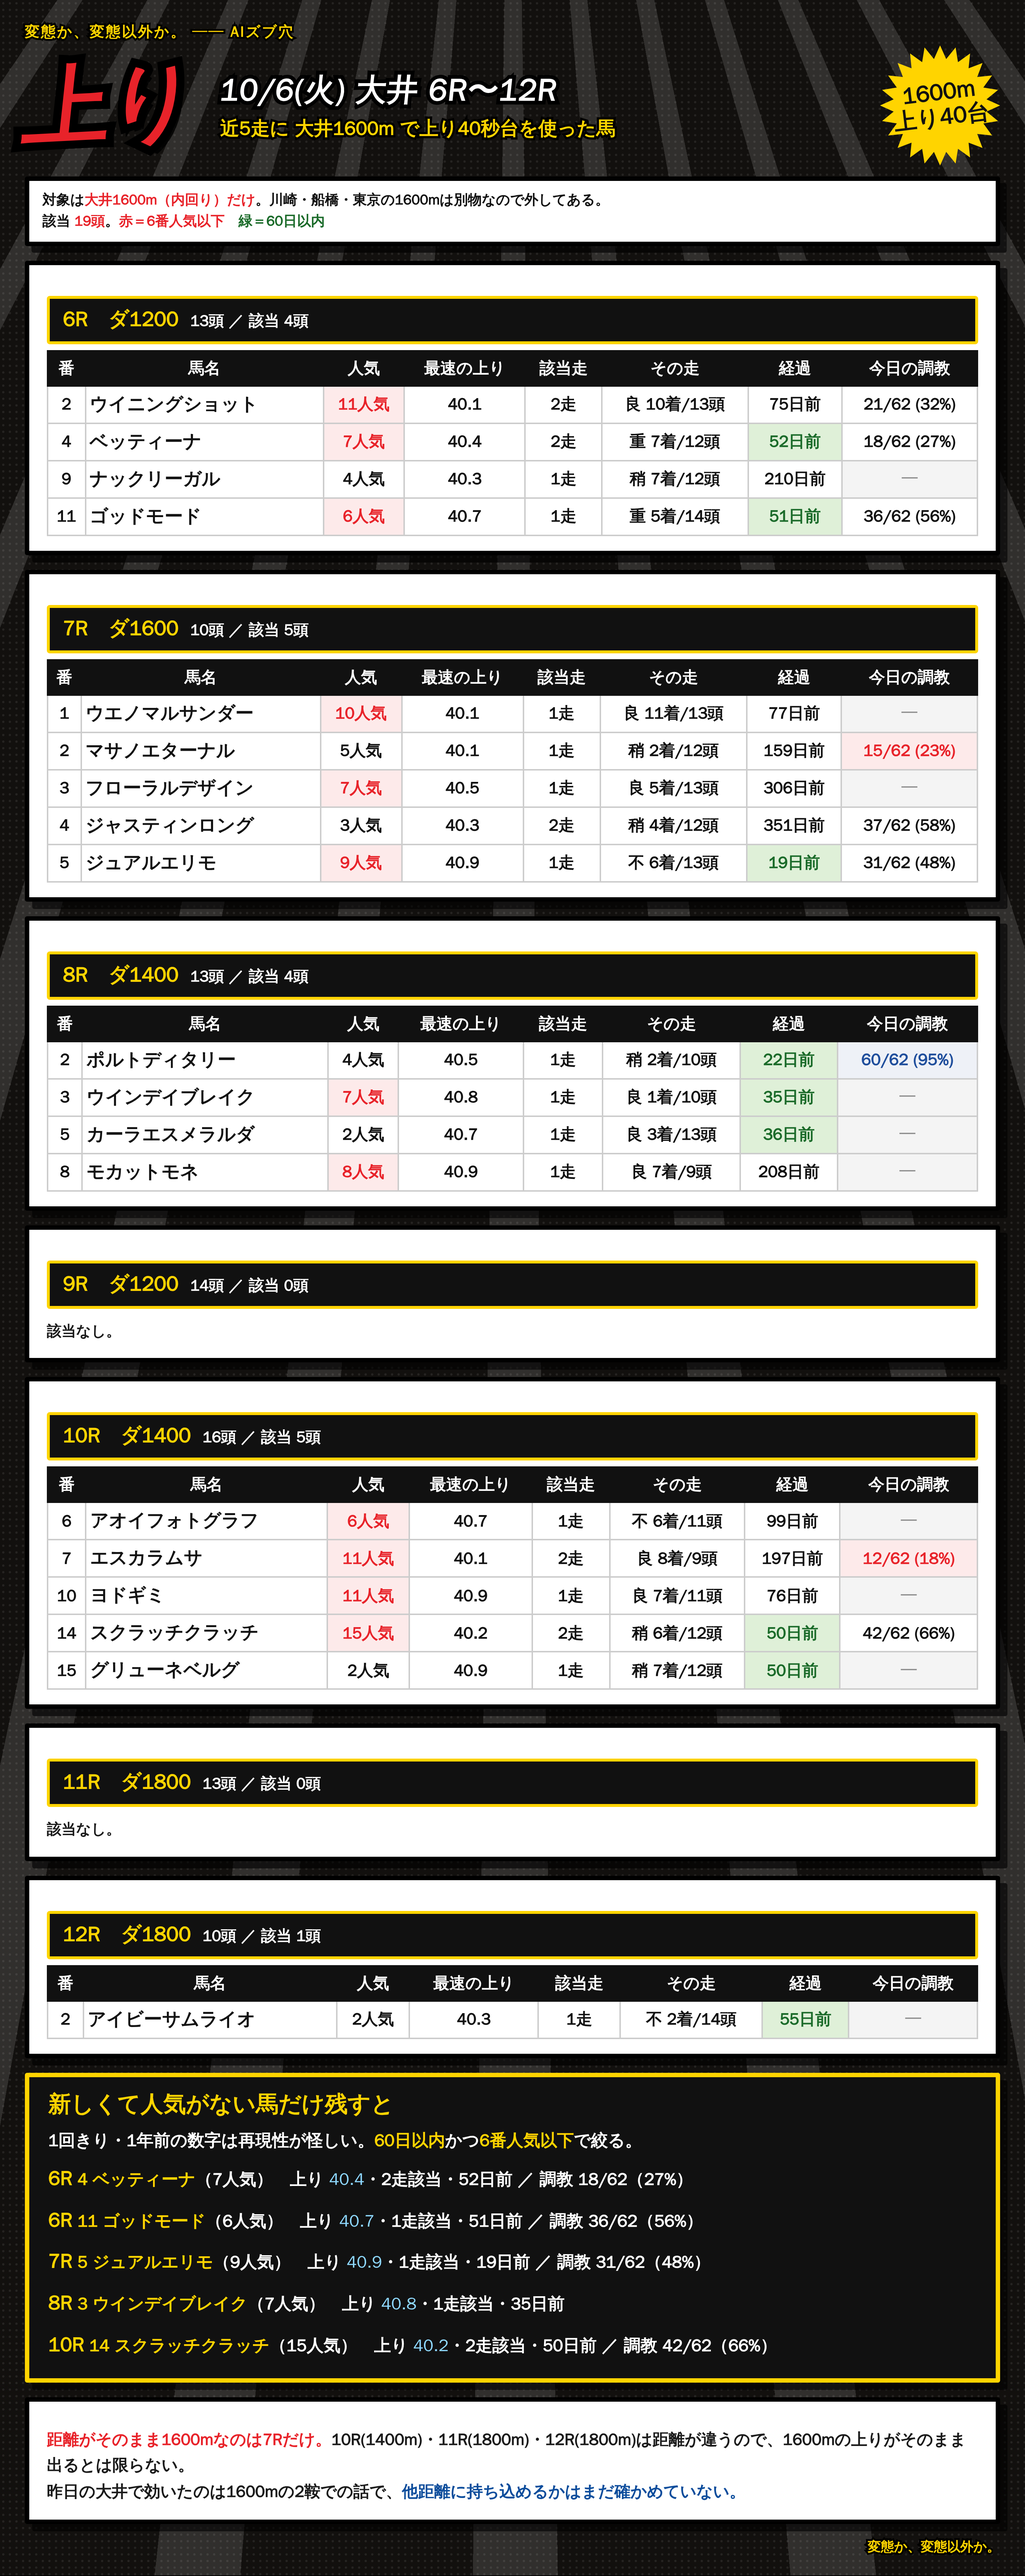
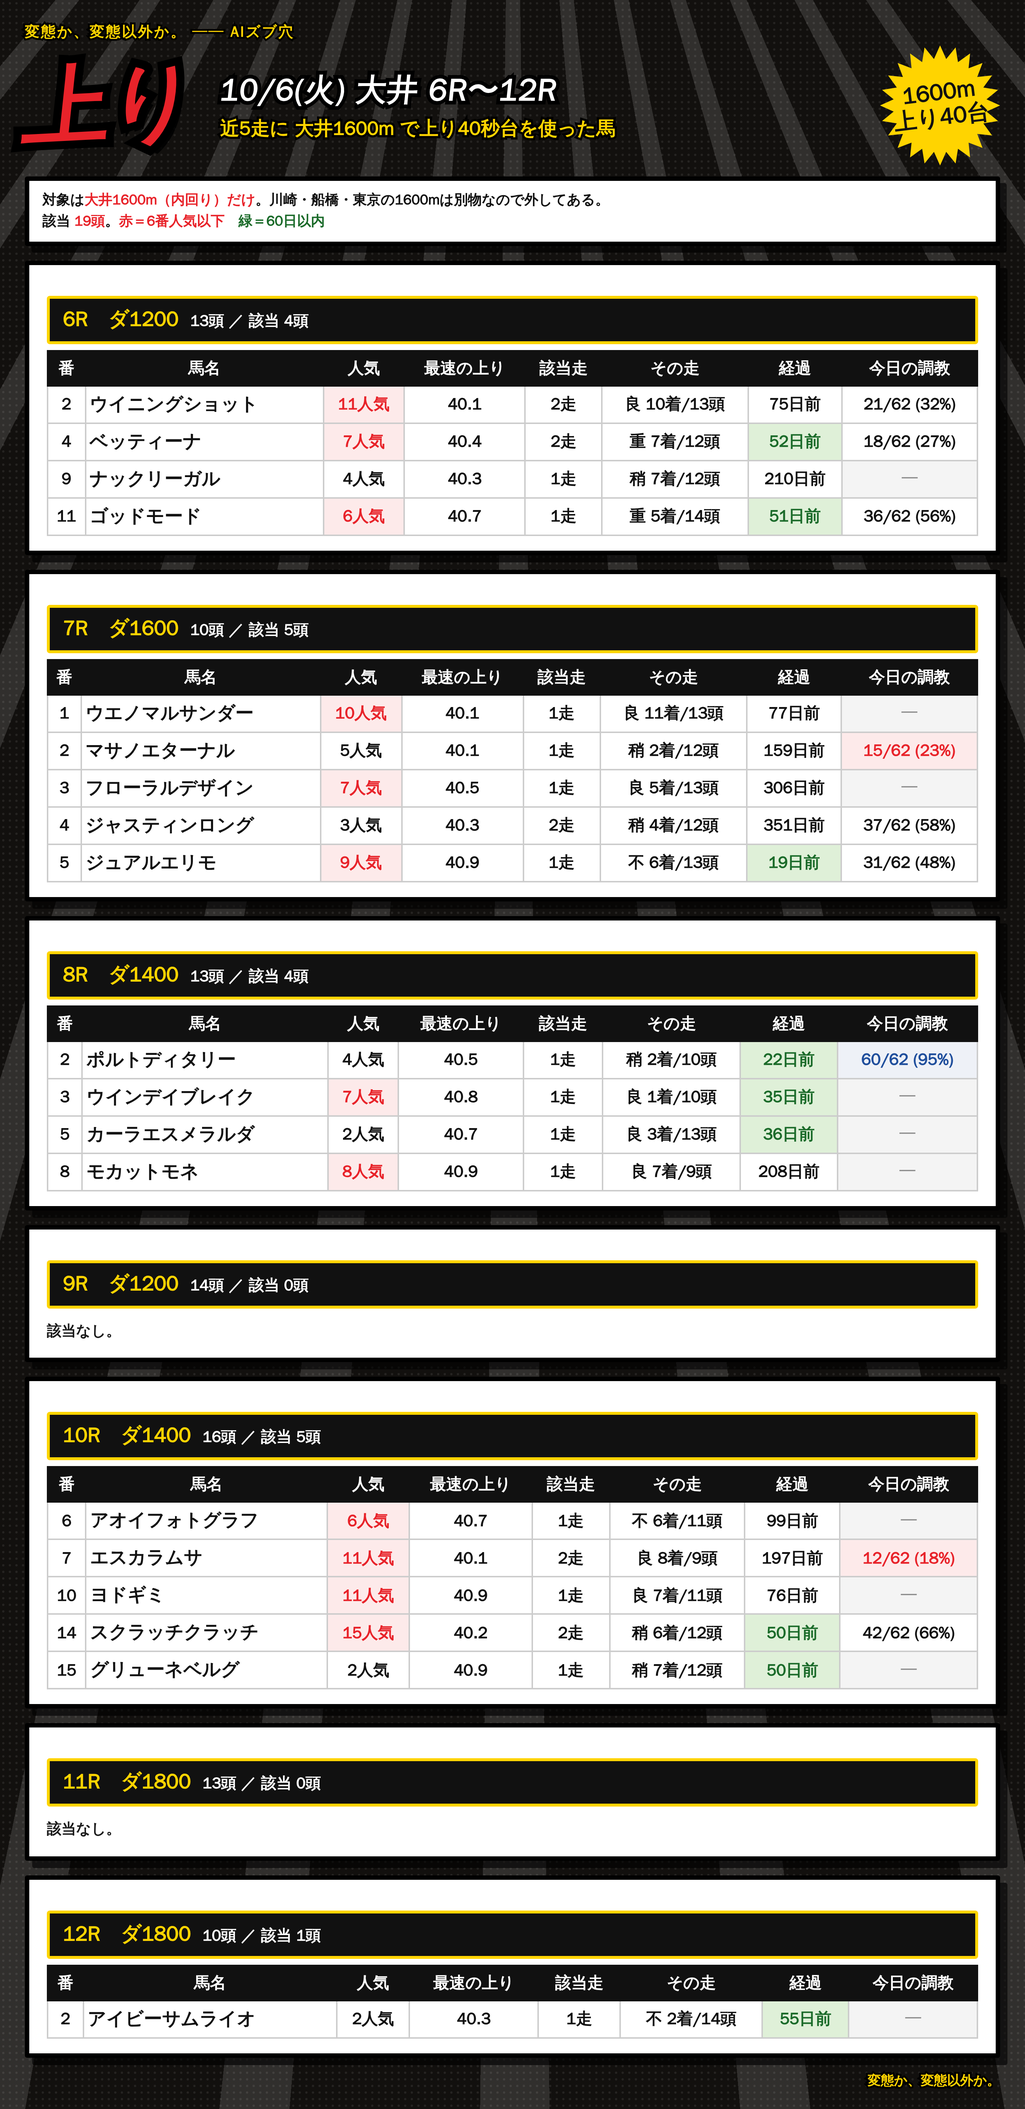
下の解説と絞り込みの箱を削除。表だけにした
Claude-Session: https://claude.ai/code/session_01RoHscZkr96FNaxQWvUqgEw

diff --git a/notes/live/2026-10-06/ooi_1006_agari40.html b/notes/live/2026-10-06/ooi_1006_agari40.html
@@ -164,14 +164,5 @@ table.t td.gr{background:#f4f4f4;color:#888;font-size:21px}
 <table class="t"><tr><th>番</th><th>馬名</th><th>人気</th><th>最速の上り</th><th>該当走</th><th>その走</th><th>経過</th><th>今日の調教</th></tr>
 <tr><td>2</td><td class="l">アイビーサムライオ</td><td class="">2人気</td><td class="">40.3</td><td>1走</td><td>不 2着/14頭</td><td class="fresh">55日前</td><td class="gr">─</td></tr>
 </table></div>
-<div class="big"><div class="bh">新しくて人気がない馬だけ残すと</div>
-<div class="it">1回きり・1年前の数字は再現性が怪しい。<span class="y">60日以内</span>かつ<span class="y">6番人気以下</span>で絞る。</div>
-<div class="it"><span class="no">6R</span> <span class="y">4 ベッティーナ</span>（7人気）　上り <span class="c">40.4</span>・2走該当・52日前 ／ 調教 18/62（27%）</div>
-<div class="it"><span class="no">6R</span> <span class="y">11 ゴッドモード</span>（6人気）　上り <span class="c">40.7</span>・1走該当・51日前 ／ 調教 36/62（56%）</div>
-<div class="it"><span class="no">7R</span> <span class="y">5 ジュアルエリモ</span>（9人気）　上り <span class="c">40.9</span>・1走該当・19日前 ／ 調教 31/62（48%）</div>
-<div class="it"><span class="no">8R</span> <span class="y">3 ウインデイブレイク</span>（7人気）　上り <span class="c">40.8</span>・1走該当・35日前</div>
-<div class="it"><span class="no">10R</span> <span class="y">14 スクラッチクラッチ</span>（15人気）　上り <span class="c">40.2</span>・2走該当・50日前 ／ 調教 42/62（66%）</div>
-</div>
-<div class="sec"><div class="note" style="font-size:22px"><b class="r">距離がそのまま1600mなのは7Rだけ。</b>10R(1400m)・11R(1800m)・12R(1800m)は距離が違うので、1600mの上りがそのまま出るとは限らない。<br>昨日の大井で効いたのは1600mの2鞍での話で、<b>他距離に持ち込めるかはまだ確かめていない。</b></div></div>
 <div class="sig">変態か、変態以外か。</div>
 </div></div></body></html>
